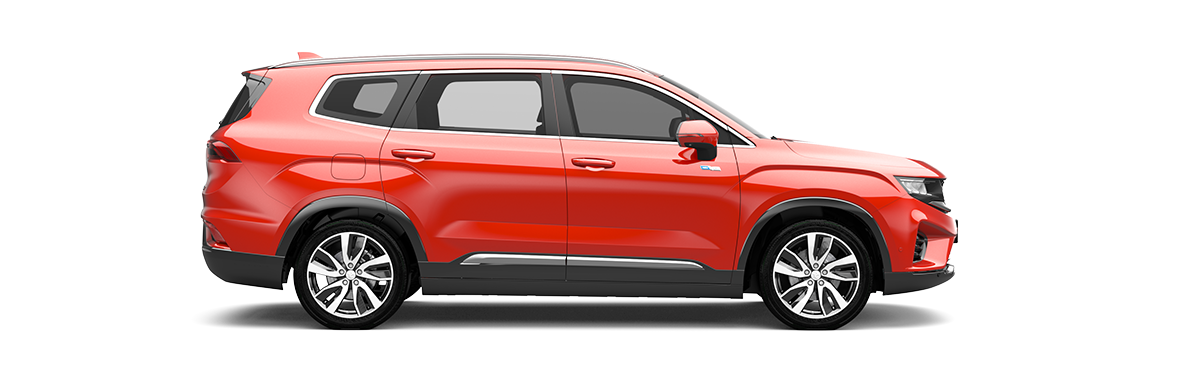
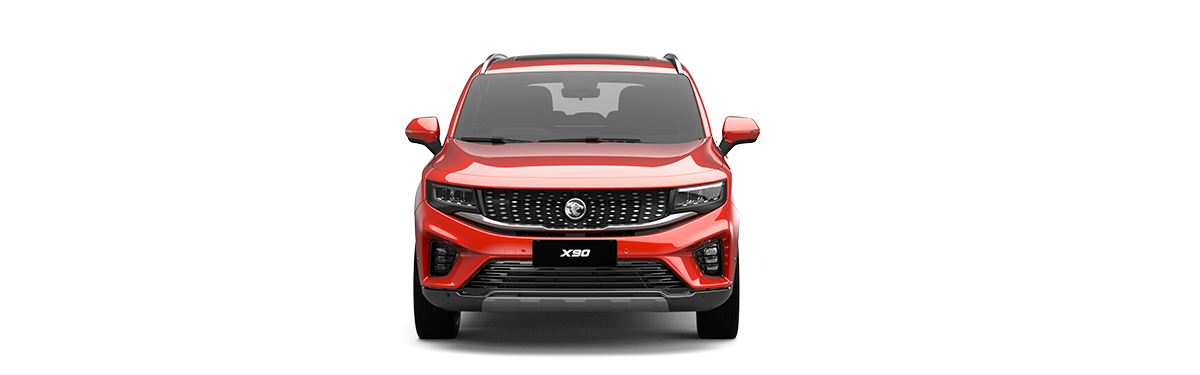
adding carousel pages

diff --git a/resources/views/code_dump.html b/resources/views/code_dump.html
@@ -366,3 +366,28 @@ code_dump
         <!-- Dropdown menu content goes here -->
     </div>
 </div>
+
+
+<div x-data="{ slide: 1, totalSlides: 4 }" class="relative flex items-center justify-center h-screen">
+    <!-- Slideshow container -->
+    <div class="slideshow-container w-3/4">
+        <!-- Full-width images with number and caption text -->
+        <template x-for="slideNum in Array.from({ length: totalSlides }).map((_, index) => index + 1)" :key="slideNum">
+            <div x-show="slide === slideNum" class="mySlides fade">
+                <div x-text="`${slideNum} / ${totalSlides}`" class="numbertext"></div>
+                <img x-bind:src="'{{ asset('images/proton_car_png/X90/x90_Side_' + slideNum + '_Red.png') }}'" style="width:70%">
+            </div>
+        </template>
+        
+        <!-- Next and previous buttons -->
+        <a x-on:click="slide = (slide === 1) ? totalSlides : slide - 1" class="prev absolute top-1/2 left-4 transform -translate-y-1/2 cursor-pointer">&#10094;</a>
+        <a x-on:click="slide = (slide === totalSlides) ? 1 : slide + 1" class="next absolute top-1/2 right-4 transform -translate-y-1/2 cursor-pointer">&#10095;</a>
+    </div>
+    
+    <!-- The dots/circles -->
+    <div class="flex justify-center mt-2">
+        <template x-for="slideNum in Array.from({ length: totalSlides }).map((_, index) => index + 1)" :key="slideNum">
+            <span x-on:click="slide = slideNum" class="dot"></span>
+        </template>
+    </div>
+</div>

diff --git a/resources/js/SliderComponent.js b/resources/js/SliderComponent.js
@@ -1,0 +1,22 @@
+// resources/js/SliderComponent.js
+window.Alpine.component('slider', {
+    data() {
+        return {
+            slides: [],
+            currentSlide: 0,
+        };
+    },
+    async mounted() {
+        const response = await fetch('/api/slides'); // Assuming you have an API endpoint for slider data
+        const data = await response.json();
+        this.slides = data;
+    },
+    methods: {
+        nextSlide() {
+            this.currentSlide = (this.currentSlide + 1) % this.slides.length;
+        },
+        prevSlide() {
+            this.currentSlide = (this.currentSlide - 1 + this.slides.length) % this.slides.length;
+        },
+    },
+});

diff --git a/resources/views/layouts/carousel.blade.php b/resources/views/layouts/carousel.blade.php
@@ -1,37 +1,25 @@
-<div x-data="{ slide: 1 }" class="relative">
+ <div x-data="{ slide: 1, totalSlides: 4 }" class="relative flex items-center justify-center h-screen">
     <!-- Slideshow container -->
-    <div class="slideshow-container">
+    <div class="slideshow-container w-4/5">
         <!-- Full-width images with number and caption text -->
-        <div x-show="slide === 1" class="mySlides fade">
-            <div class="numbertext">1 / 4</div>
-            <img src="{{ asset('images/proton_car_png/X90/x90_Side_1_Red.png') }}" style="width:100%">
-            <!--<div class="text">Caption Text 1</div>-->
-        </div>
-        <div x-show="slide === 2" class="mySlides fade">
-            <div class="numbertext">2 / 4</div>
-            <img src="{{ asset('images/proton_car_png/X90/x90_Front_Red.png') }}" style="width:100%">
-            <!--<div class="text">Caption Text 2</div>-->
-        </div>
-        <div x-show="slide === 3" class="mySlides fade">
-            <div class="numbertext">3 / 4</div>
-            <img src="{{ asset('images/proton_car_png/X90/x90_Side_2_Red.png') }}" style="width:100%">
-            <!--<div class="text">Caption Text 3</div>-->
-        </div>
-        <div x-show="slide === 4" class="mySlides fade">
-            <div class="numbertext">4 / 4</div>
-            <img src="{{ asset('images/proton_car_png/X90/x90_Bank_Red.png') }}" style="width:100%">
-            <!--<div class="text">Caption Text 3</div>-->
-        </div>
+        <template x-for="i in totalSlides" :key="i">
+            <div x-show="slide === i" class="mySlides fade">
+                <div class="numbertext" x-text="`${i} / ${totalSlides}`"></div>
+                <img x-bind:src="`{{ asset('images/proton_car_png/X90/x90_Side_${i}_Red.png') }}`" style="width:100%">
+                <!--<div class="text">Caption Text</div>-->
+            </div>
+        </template>
         
-        <!-- Next and previous buttons -->
-        <a x-on:click="slide--" class="prev absolute top-1/2 left-4 transform -translate-y-1/2 cursor-pointer">&#10094;</a>
-        <a x-on:click="slide++" class="next absolute top-1/2 right-4 transform -translate-y-1/2 cursor-pointer">&#10095;</a>
+        
     </div>
-    
+        <!-- Next and previous buttons -->
+        <a x-on:click="slide = (slide === 1) ? totalSlides : slide - 1" class="prev absolute top-1/2 left-10 transform -translate-y-1/2 cursor-pointer">&#10094;</a>
+        <a x-on:click="slide = (slide === totalSlides) ? 1 : slide + 1" class="next absolute top-1/2 right-10 transform -translate-y-1/2 cursor-pointer">&#10095;</a>
     <!-- The dots/circles -->
     <div class="flex justify-center mt-2">
-        <span x-on:click="slide = 1" class="dot"></span>
-        <span x-on:click="slide = 2" class="dot"></span>
-        <span x-on:click="slide = 3" class="dot"></span>
+        <template x-for="i in totalSlides" :key="i">
+            <span x-on:click="slide = i" class="dot mr-2 cursor-pointer" :class="{ 'bg-gray-900': slide === i }"></span>
+        </template>
     </div>
 </div>
+

diff --git a/resources/views/carpage.blade.php b/resources/views/carpage.blade.php
@@ -52,10 +52,22 @@
         </div>
 
         <!-- main content -->
-        <div>
-            {{-- @include ('layouts.carousel') --}}
+        <!-- first carousel for mainpage -->
+        <div class="relative flex flex-col items-center justify-center h-screen">
+            <div class="">
+                @include ('layouts.carousel')
+            </div>
+            <button class="bg-red-700 hover:bg-gray-700 transition duration-300 ease-in-out transform hover:scale-105 text-white font-bold py-4 px-8 rounded-full">
+                Click Me!
+            </button>
         </div>
-
+        
+            
+        <div class="flex items-center justify-center h-screen">
+            <div class="w-70 mt-0">
+               
+            </div>
+        </div>
 
     </body> 
 </html>

diff --git a/database/migrations/2023_11_01_082147_create_sliders_table.php b/database/migrations/2023_11_01_082147_create_sliders_table.php
@@ -1,0 +1,27 @@
+<?php
+
+use Illuminate\Database\Migrations\Migration;
+use Illuminate\Database\Schema\Blueprint;
+use Illuminate\Support\Facades\Schema;
+
+return new class extends Migration
+{
+    /**
+     * Run the migrations.
+     */
+    public function up(): void
+    {
+        Schema::create('sliders', function (Blueprint $table) {
+            $table->id();
+            $table->timestamps();
+        });
+    }
+
+    /**
+     * Reverse the migrations.
+     */
+    public function down(): void
+    {
+        Schema::dropIfExists('sliders');
+    }
+};

diff --git a/routes/api.php b/routes/api.php
@@ -2,6 +2,7 @@
 
 use Illuminate\Http\Request;
 use Illuminate\Support\Facades\Route;
+use App\Http\Controllers\SliderController;
 
 /*
 |--------------------------------------------------------------------------
@@ -17,3 +18,5 @@ use Illuminate\Support\Facades\Route;
 Route::middleware('auth:sanctum')->get('/user', function (Request $request) {
     return $request->user();
 });
+
+Route::get('/slides', [SliderController::class, 'index']);

diff --git a/app/Http/Controllers/SliderController.php b/app/Http/Controllers/SliderController.php
@@ -1,0 +1,14 @@
+<?php
+
+namespace App\Http\Controllers;
+use App\Models\Slider;
+
+use Illuminate\Http\Request;
+
+class SliderController extends Controller
+{
+    public function index()
+    {
+        return Slider::all();
+    }
+}

diff --git a/app/Models/Slider.php b/app/Models/Slider.php
@@ -1,0 +1,11 @@
+<?php
+
+namespace App\Models;
+
+use Illuminate\Database\Eloquent\Factories\HasFactory;
+use Illuminate\Database\Eloquent\Model;
+
+class Slider extends Model
+{
+    use HasFactory;
+}
